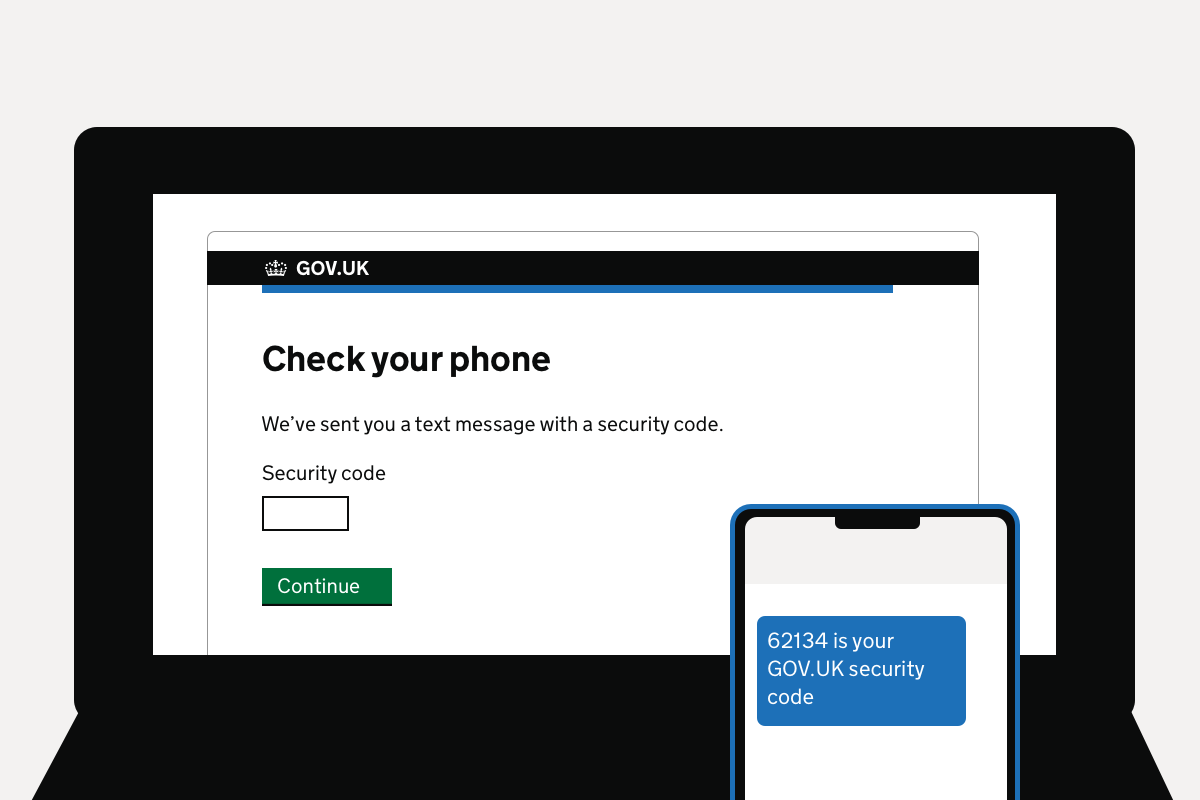
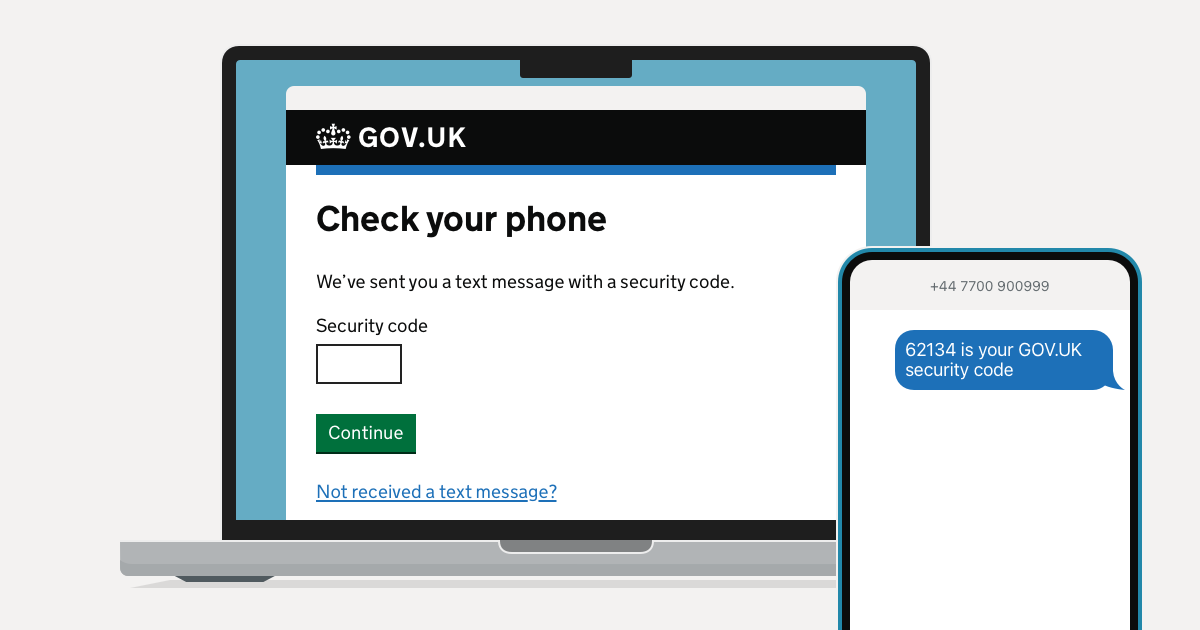
Update image for post about contributing to the Design System

diff --git a/app/posts/contributing-to-govuk-design-system.md b/app/posts/contributing-to-govuk-design-system.md
@@ -7,7 +7,7 @@ author:
   url: https://github.com/frankieroberto
 image:
   src: /assets/posts/contributing-to-govuk-design-system/check-your-phone.png
-  alt: Illustration of a laptop showing a website saying ‘Check your phone’ and a phone with an SMS saying ‘62134 is your security code’.
+  alt: Illustration of a laptop showing a website saying ‘Check your phone’ and a phone with a text message saying ‘62134 is your GOV.UK security code’.
   opengraphImage: true
 ---
 
